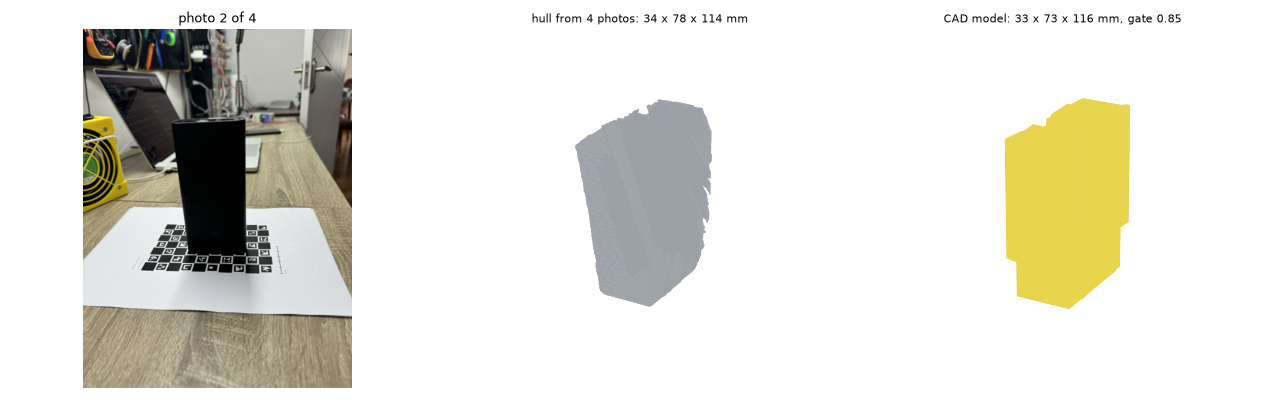
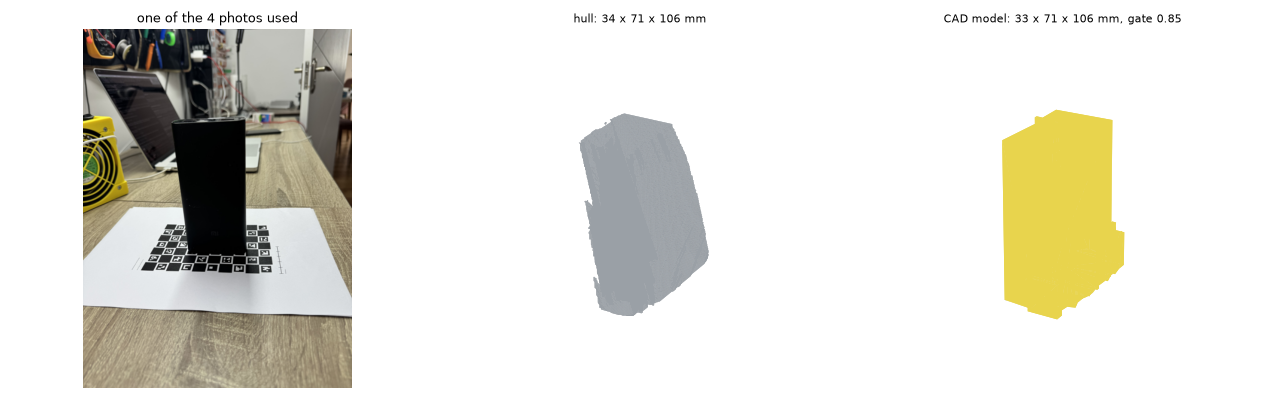
Real-photo masks: saliency inside the board prism when it does not cover the markers, board comparison only when the pose reprojects under a pixel, views that swallow the sheet dropped; knee reference from the second quarter

diff --git a/src/photo2fcstd/capture.py b/src/photo2fcstd/capture.py
@@ -57,8 +57,19 @@ def focal_px_from_exif(path, shape):
 
 def board_mask(image, view, min_frac=0.0005, open_px=5, path=None):
     from photo2fcstd.rectify import as_uint8
-    from scipy import ndimage
     img = as_uint8(image)
+    hsv = cv2.cvtColor(img, cv2.COLOR_RGB2HSV) if img.ndim == 3 else None
+    gray = cv2.cvtColor(img, cv2.COLOR_RGB2GRAY) if img.ndim == 3 else img
+    def poly(pts):
+        m = np.zeros(gray.shape, np.uint8); cv2.fillConvexPoly(m, cv2.convexHull(np.asarray(pts, np.float32)).astype(np.int32), 1); return m > 0
+    patch, quad, prism = poly(clear_quad(view)), poly(board_quad(view)), poly(board_prism(view))
+    paper = (gray > 185) & ((hsv[..., 1] < 45) if hsv is not None else True)
+    expected = cv2.cvtColor(board_render(view, gray.shape), cv2.COLOR_BGR2GRAY)
+    differs = np.abs(cv2.GaussianBlur(gray, (0, 0), 1.5).astype(int) - cv2.GaussianBlur(expected, (0, 0), 1.5).astype(int)) > 60
+    coloured = (hsv[..., 1] > 60) if hsv is not None else np.zeros(gray.shape, bool)
+    aligned = float(view.get("reprojection_px", 0.0)) < 1.0
+    on_sheet = ((~paper) & patch) | (((differs & aligned) | coloured) & quad & ~patch)
+    sal = None
     if path is not None:
         from photo2fcstd import trace
         was = trace.RECOVER_DARK; trace.RECOVER_DARK = False
@@ -66,27 +77,17 @@ def board_mask(image, view, min_frac=0.0005, open_px=5, path=None):
             sal = trace.segment_photo(path)
         finally:
             trace.RECOVER_DARK = was
-        quad = np.zeros(img.shape[:2], np.uint8); cv2.fillConvexPoly(quad, board_quad(view).astype(np.int32), 1)
-        region = np.zeros(img.shape[:2], np.uint8); cv2.fillConvexPoly(region, cv2.convexHull(board_prism(view).astype(np.int32)), 1)
-        if sal.shape == region.shape and (sal & (quad > 0)).sum() < 0.6 * quad.sum() and (sal & (region > 0)).sum() > 0.7 * sal.sum():
-            m = sal & (region > 0)
-            lab, n = ndimage.label(m)
-            if n:
-                sizes = ndimage.sum(m, lab, range(1, n + 1))
-                return lab == (int(np.argmax(sizes)) + 1)
-    hsv = cv2.cvtColor(img, cv2.COLOR_RGB2HSV) if img.ndim == 3 else None
-    gray = cv2.cvtColor(img, cv2.COLOR_RGB2GRAY) if img.ndim == 3 else img
-    prism = np.zeros(gray.shape, np.uint8)
-    cv2.fillConvexPoly(prism, cv2.convexHull(clear_prism(view).astype(np.int32)), 1)
-    patch = np.zeros(gray.shape, np.uint8)
-    cv2.fillConvexPoly(patch, clear_quad(view).astype(np.int32), 1)
-    paper = (gray > 185) & ((hsv[..., 1] < 45) if hsv is not None else True)
-    expected = cv2.cvtColor(board_render(view, gray.shape), cv2.COLOR_BGR2GRAY)
-    differs = np.abs(cv2.GaussianBlur(gray, (0, 0), 1.5).astype(int) - cv2.GaussianBlur(expected, (0, 0), 1.5).astype(int)) > 60
-    coloured = (hsv[..., 1] > 60) if hsv is not None else np.zeros(gray.shape, bool)
-    mask = ((~paper) & (patch > 0)) | ((differs | coloured) & (prism > 0) & (patch == 0))
+        ring = quad & ~patch
+        if sal.shape != gray.shape or (sal & ring).sum() > 0.35 * ring.sum():
+            sal = None
+    mask = (sal & prism) if sal is not None else (on_sheet | ((~paper) & prism & ~quad))
     mask = cv2.morphologyEx(mask.astype(np.uint8), cv2.MORPH_OPEN, np.ones((open_px, open_px), np.uint8)) > 0
     mask = cv2.morphologyEx(mask.astype(np.uint8), cv2.MORPH_CLOSE, np.ones((3 * open_px, 3 * open_px), np.uint8)) > 0
+    return _largest_touching(mask, patch.astype(np.uint8), min_frac)
+
+
+def _largest_touching(mask, patch, min_frac):
+    from scipy import ndimage
     lab, n = ndimage.label(mask)
     if n == 0:
         return mask

diff --git a/src/photo2fcstd/carve.py b/src/photo2fcstd/carve.py
@@ -111,7 +111,8 @@ def top_height(carved, frac=0.9):
     z = carved["points_mm"][:, 2]; vox = carved["voxel_mm"]
     zs = np.arange(z.min(), z.max() + vox, vox)
     area = np.array([((z >= s - vox / 2) & (z < s + vox / 2)).sum() for s in zs])
-    ref = np.median(area[:max(3, len(area) // 4)])
+    q = len(area) // 4
+    ref = np.median(area[q:2 * q]) if q >= 3 else np.median(area[:max(3, q)])
     ok = np.nonzero(area >= frac * ref)[0]
     return float(zs[ok[-1]] + vox / 2)
 
@@ -285,7 +286,7 @@ def board_views(paths):
         if p is None:
             continue
         m = board_mask(image, p, path=path)
-        if m.sum() < 50:
+        if m.sum() < 50 or _covers_markers(m, p):
             continue
         views.append(p)
         masks.append(m)
@@ -307,6 +308,14 @@ def from_known_poses(paths, views, voxel_mm=VOXEL_MM):
     carved["sources"] = used
     carved["calibration_rms_px"] = None
     return carved
+
+
+def _covers_markers(mask, view, limit=0.35):
+    from photo2fcstd.capture import board_quad, clear_quad
+    quad = np.zeros(mask.shape, np.uint8); cv2.fillConvexPoly(quad, board_quad(view).astype(np.int32), 1)
+    patch = np.zeros(mask.shape, np.uint8); cv2.fillConvexPoly(patch, clear_quad(view).astype(np.int32), 1)
+    ring = (quad > 0) & (patch == 0)
+    return bool((mask & ring).sum() > limit * max(ring.sum(), 1))
 
 
 def from_photos(paths, segment_fn=None, voxel_mm=VOXEL_MM):
